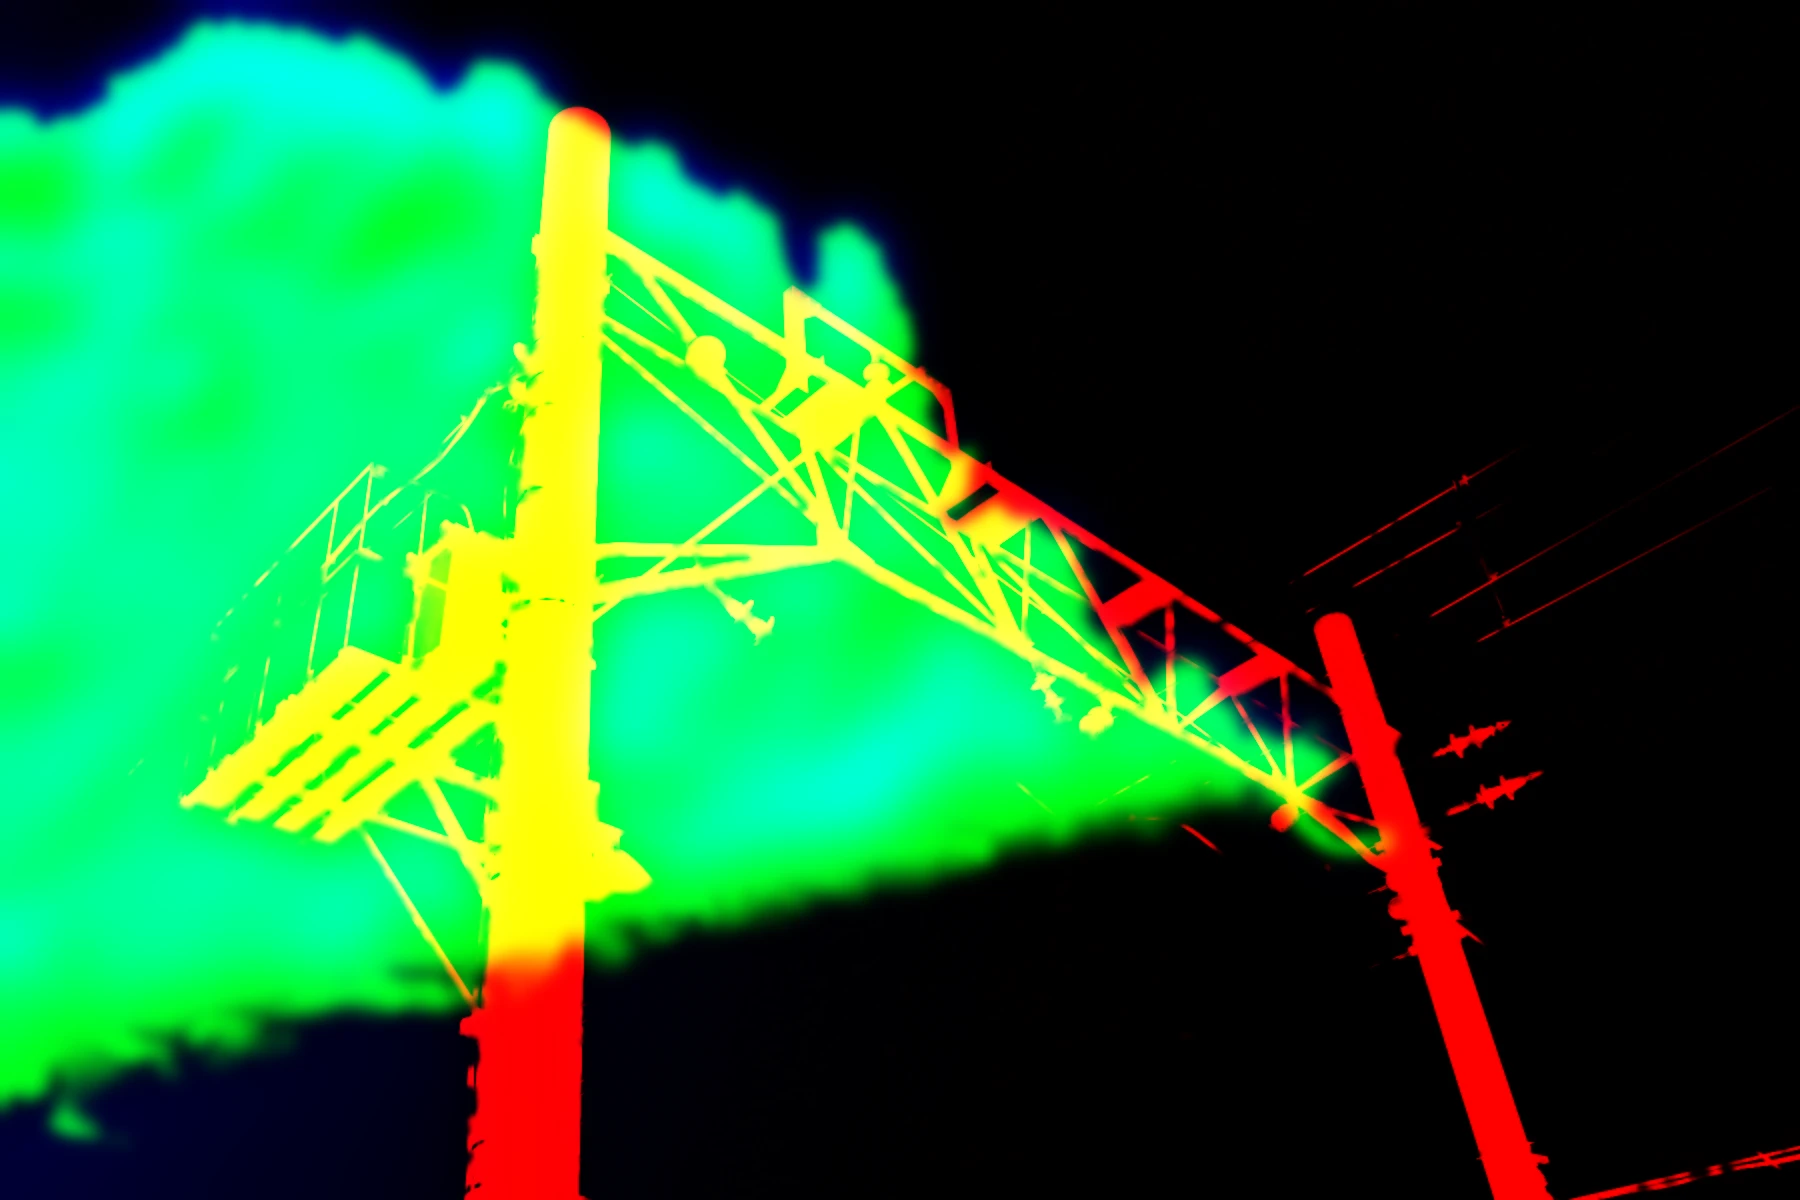
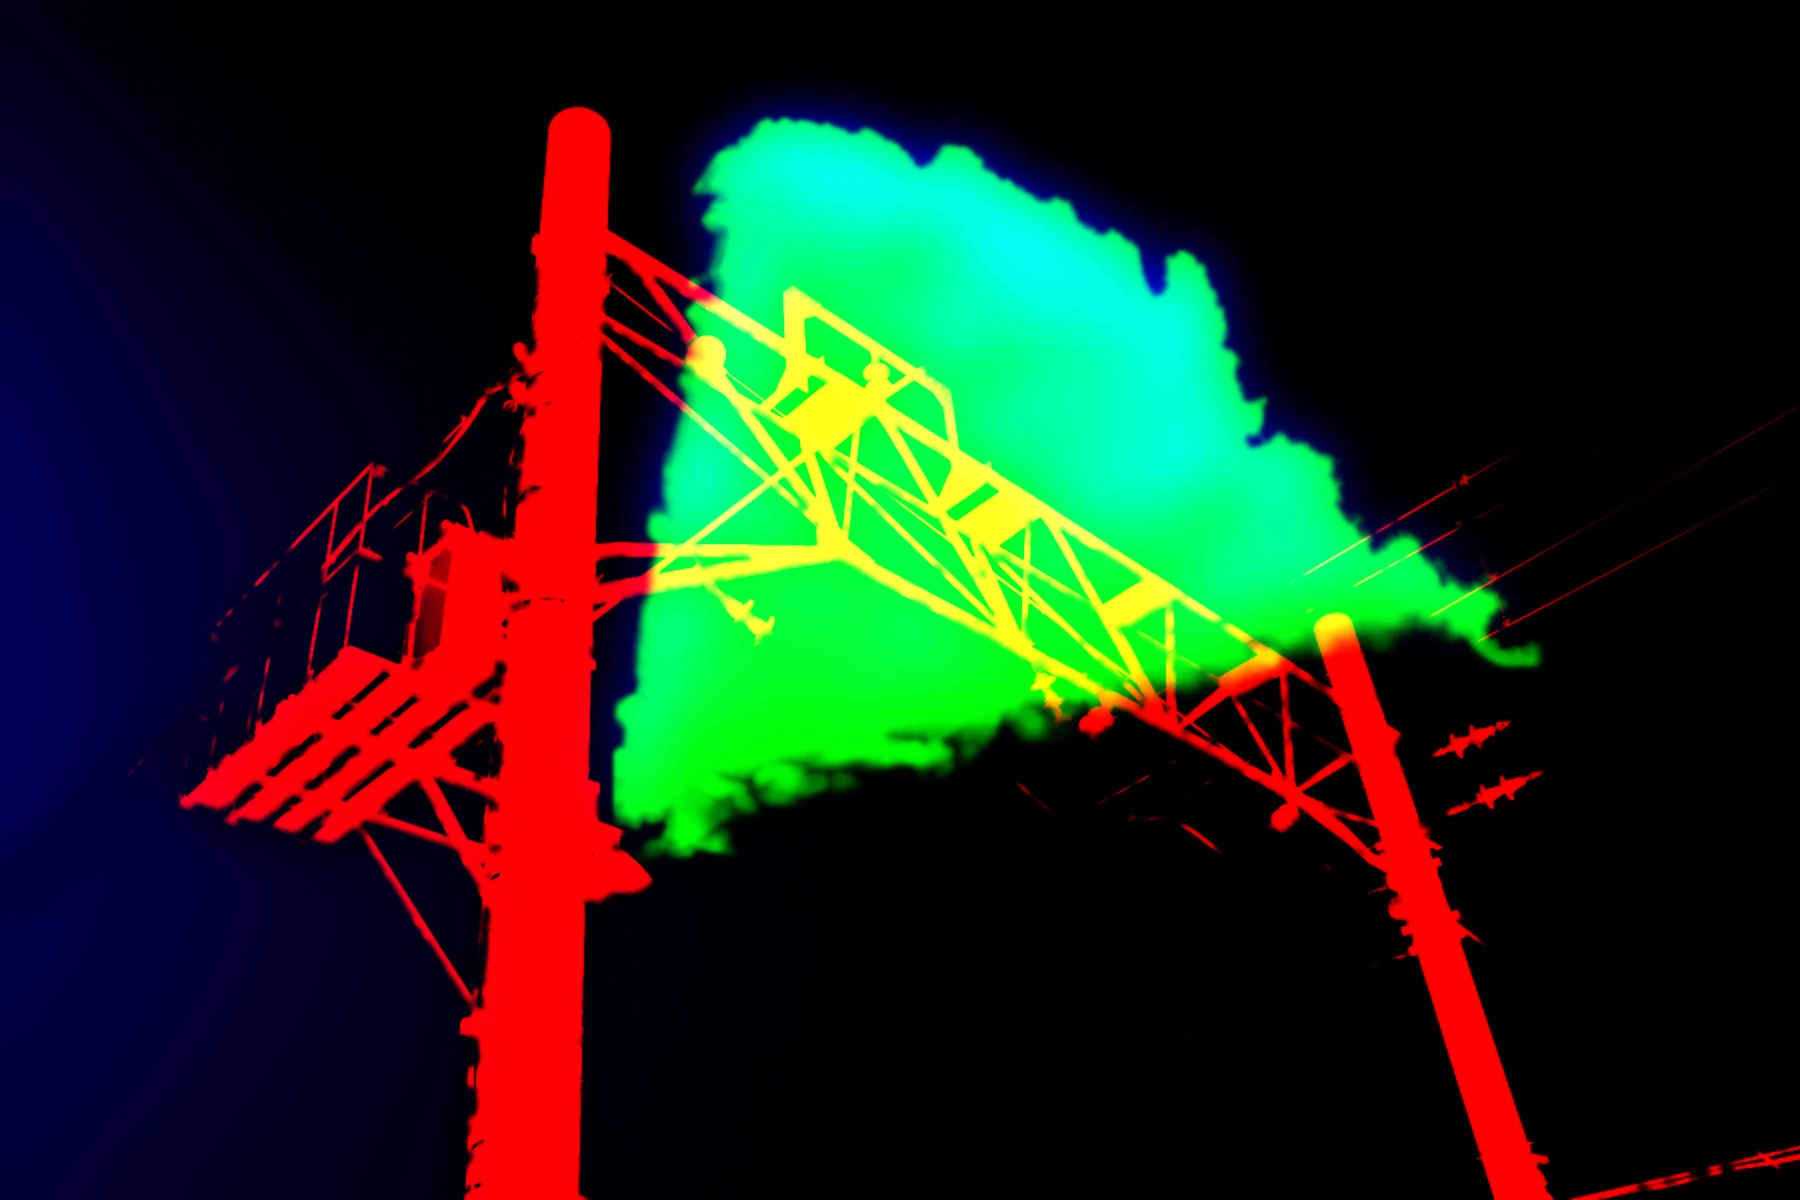
Lab: climb catenary round 2
Claude-Session: https://claude.ai/code/session_01RqENhngNCzDFmJWDZueXGV

diff --git a/tools/depth/bakes/catenary/sky.py b/tools/depth/bakes/catenary/sky.py
@@ -17,23 +17,25 @@
 #     the plate's own clear-sky pixels, so its gradient, hue and the cobalt it
 #     deepens to at the top stay the photograph's; a fine, luma-only grain
 #     measured off the plate's sky goes back on top of it.
-#  3. One towering cumulus is taken from a second photograph (the clean side
-#     of the tower in cumulus-pole.jpg, left of it a pole and wires) and set
-#     the way it was shot, lit from the left like the steel: its crown just
-#     under the frame top on the left, behind the gantry apex and the near
-#     pole's upper half, its billowed flank stepping down to the right behind
-#     the truss, the side cut at the source's pole lying past the frame's left
-#     edge. Its own sky is unmixed out of it (cloud opacity from the
-#     red-to-blue ratio, then again along each edge pixel's colour line), so
-#     its thin edges take this sky, not that one, and it is laid over this
-#     sky through a soft matte (FEATHER), so no contour of either is left.
-#     Its body is re-lit as a volume from its own light (the form term:
-#     sunlit billows warm paper, the shaded side and the body under the
-#     tower skylight blue; the brightest tops about 236-240 here, nothing at
-#     255). Below a base line
-#     drawn from where the flank leaves the source the cloud gives way to sky
-#     on its own light, so the source's flat lower haze and its cut right
-#     edge never show and nothing is carried on by reflection.
+#  3. One towering cumulus is taken from a second photograph: only the
+#     crisp cauliflower crown of the tower in cumulus-pole.jpg (right of its
+#     pole), set the way it was shot, lit from the left like the steel, at
+#     about two thirds the size it was first staged at. Its whole crown
+#     stands clear against open cobalt in the gap between the mast top and
+#     the feeder, its top about a tenth of the frame down; its flank steps
+#     down to the right, and only its lower body passes behind the truss and
+#     the far pole. Left of it, behind the transformer, is open sky over the
+#     tower's shaded foot. Its own sky is unmixed out of it (cloud opacity
+#     from the red-to-blue ratio, then again along each edge pixel's colour
+#     line), so its thin edges take this sky, not that one, and it is laid
+#     over this sky through a narrow matte (FEATHER), crisp, with no contour
+#     of either. Its body is re-lit as a volume from its own light (the form
+#     term: sunlit billows warm paper, the shaded side and the body under
+#     the crown skylight blue; the crown keeps more of its own light than the
+#     flat body; the brightest tops about 236-240 here, nothing at 255).
+#     Where the source's pole and its soft, veiled base were, lines drawn
+#     around the tower (CUTS) give the cloud back to sky on its own light,
+#     so it ends on lobes and nothing is carried on by reflection.
 #  4. The new sky goes in behind the steel by difference: each pixel adds
 #     (1 - steel) times the change of background under it, against the old
 #     background filled in under the steel, so a mast edge that was mixed
@@ -55,23 +57,43 @@ for name in ("plate", "key"):
         shutil.copy(f"{PUB}/{name}.webp", f"{WORK}/{name}-shot.webp")
 
 LUMA = np.array([0.2126, 0.7152, 0.0722], np.float32)
-# The cumulus: the source columns kept (left of them the pole), the scale
-# (plate px per source px) and the plate point the source's (SRC_X0, 0) lands
-# on. Not mirrored: SRC_X0 sits on the plate's left edge, the crown (source
-# row ~142) lands ~40px under the frame top, and the flank leaves the source's
-# right edge at source row ~940. The scale is what puts the flank behind most
-# of the truss; below ~1.9 the truss's far half stands on bare sky.
-SRC_X0 = 1000
-SCALE = 2.0
-LEFT = 0  # plate column of source column SRC_X0
-TOP = -244  # plate row of the source's row 0
-# The base line, plate px: from where the flank leaves the source (source
-# (2399, 940)) down to the frame's left edge. BASE_FADE is how far inside the
-# line the cloud starts to give way; LOBE how far its own light moves that.
-BASE_A = (LEFT + (2399 - SRC_X0) * SCALE, TOP + 940 * SCALE)
-BASE_B = (0.0, 2300.0)
-BASE_FADE = 260.0
-LOBE = 6.0
+# The cumulus: its crown. Only the source's cauliflower top is staged, the
+# part right of its pole (SRC_X0) and above where its flank goes soft; the
+# flat, veiled base and the haze under it never show. Not mirrored: lit from
+# the left, like the steel. SCALE is plate px per source px; (LEFT, TOP) the
+# plate point the source's (SRC_X0, 0) lands on. At this size and place the
+# whole crown stands clear in the gap between the mast top and the feeder,
+# about 0.25-0.65 of the frame's width, its top (source row ~140) about a
+# tenth of the frame down, and only its lower body passes behind the truss
+# and the far pole; left of it, behind the transformer, is open sky.
+SRC_X0 = 975
+SCALE = 1.3
+LEFT = 1234  # plate column of source column SRC_X0
+TOP = 52  # plate row of the source's row 0
+
+
+def at(x, y):
+    # source px -> plate px
+    return (LEFT + (x - SRC_X0) * SCALE, TOP + y * SCALE)
+
+
+# Where the tower gives way to sky, as lines in source px, each with how far
+# inside it the cloud starts to give way (plate px) and how far its own
+# light moves the line (lobe): a lobe brighter than its surroundings reaches
+# past it, the hollows between lobes give way first, so the tower ends on
+# lobes, not on a line. The base runs from where the flank leaves the source
+# (its right edge, row ~940) back under the crown. The side closes the
+# crown's left, where the source's pole and the lobe beside it were: it
+# starts in the notch left of the crown's peak and widens down to the left,
+# so the tower stands on its body; its top is held to a plain shoulder, or
+# the thin bright neck that joined the crown to the lobe beside its pole
+# would reach out past it as a wisp.
+CUTS = [
+    ((2399, 940), (975, 1300), 200.0, 6.0),  # the base
+    ((1130, 150), (980, 1000), 60.0, 12.0),  # the left side
+    ((1170, 110), (1000, 380), 40.0, 0.0),  # the crown's left shoulder
+]
+INSIDE = (1400, 380)  # a source point well inside the crown
 # Developed brighter: linear gain on the cloud, premultiplied.
 GAIN = 1.2
 
@@ -217,12 +239,15 @@ am = np.clip(cv2.remap(a, sx, sy_, cv2.INTER_CUBIC, borderMode=cv2.BORDER_REPLIC
 # ends on lobes, not on a line or a ramp. Nothing outside the source is used.
 cy = lin_to_srgb(np.clip(Pm @ LUMA, 0, 1) / np.maximum(am, 1e-3)) * am
 lobe = cv2.GaussianBlur(cy, (0, 0), 5) - cv2.GaussianBlur(cy, (0, 0), 40)
-(xa, ya), (xb, yb) = BASE_A, BASE_B
-nx, ny = ya - yb, xb - xa
-s_in = ((gx - xa) * nx + (gy - ya) * ny) / np.hypot(nx, ny)
-s_in *= np.sign(-xa * nx - ya * ny)  # positive on the frame's top-left side
 edge = np.minimum(sW - 1 - sx, sH - 1 - sy_)
-fade = smooth(0.3, 0.7, s_in / BASE_FADE + LOBE * lobe) * smooth(0.0, 24.0, edge)
+fade = smooth(0.0, 24.0, edge)
+ix, iy = at(*INSIDE)
+for a_, b_, width, lobe_k in CUTS:
+    (xa, ya), (xb, yb) = at(*a_), at(*b_)
+    nx, ny = ya - yb, xb - xa
+    s_in = ((gx - xa) * nx + (gy - ya) * ny) / np.hypot(nx, ny)
+    s_in *= np.sign((ix - xa) * nx + (iy - ya) * ny)  # positive inside
+    fade *= smooth(0.3, 0.7, s_in / width + lobe_k * lobe)
 fade = cv2.GaussianBlur((fade * (sy_ >= 0) * (sx >= SRC_X0)).astype(np.float32), (0, 0), 1.5)
 am *= fade
 Pm *= fade[..., None]
@@ -245,7 +270,9 @@ if n > 2:
 # toward that colour. The matte is then softened over FEATHER of the frame
 # width (sky to full cloud), so the thin edge is a linear-light mix of the
 # cloud's own white and this sky, light all the way out, with no contour.
-FEATHER = 0.015
+# Only just: a wider feather (it was 0.015) spread the edge into a pale
+# glow band outside a soft cut-out; a crown in sun stands sharp.
+FEATHER = 0.004
 Sm = cv2.remap(sl, sx, sy_, cv2.INTER_CUBIC, borderMode=cv2.BORDER_REPLICATE)
 Km = cv2.remap(ssky, sx, sy_, cv2.INTER_CUBIC, borderMode=cv2.BORDER_REPLICATE)
 dense = smooth(0.6, 0.95, cv2.erode(am, cv2.getStructuringElement(cv2.MORPH_ELLIPSE, (25, 25))))
@@ -269,8 +296,15 @@ af = cv2.GaussianBlur(a2.astype(np.float32), (0, 0), FEATHER * W / 4)
 # away, or under the tower, it takes skylight (SKYLIGHT: hue, saturation,
 # value as it should land in the print, dimmed by FORM_SHADE here, since the
 # film and print lift it), a little less in the folds between lobes. The
-# cloud's own fine texture rides on top. FORM is how far the body takes it.
-FORM = 0.9
+# cloud's own fine texture rides on top. FORM is how far the body takes it:
+# the crown, crisp and lit as photographed, keeps most of its own light; the
+# body under it (source rows BODY), flat as shot, takes FORM_BODY of it and
+# loses BODY_SHADE of the sun, so the tower stands sunlit on top of a
+# skylight-blue lower body.
+FORM = 0.45
+FORM_BODY = 0.9
+BODY = (480, 1150)  # source rows: the crown's foot, the lowest body shown
+BODY_SHADE = 0.55
 SUN = 125  # degrees, toward the sun (0 right, 90 up), as PLATE in the engine
 FORM_ELEV = 30
 FORM_RELIEF = (10.0, 4.0)  # normal gain on the lobes, on the matte
@@ -278,7 +312,7 @@ FORM_DEPTH = 0.3
 SHADOWED = 0.8  # how much of the sun the deepest body loses
 TOP = (0xF6, 0xF3, 0xEC)
 TOP_Y = 0.92  # linear luma of a fully lit billow
-SKYLIGHT = (205, 0.32, 0.75)  # its saturation set over, the print eases chroma off
+SKYLIGHT = (207, 0.4, 0.72)  # its saturation set over, the print eases chroma off
 FORM_SHADE = 0.76
 
 
@@ -325,6 +359,8 @@ od = gauss(od, 10)
 # A crest turned to the sun still catches it inside the shadowed body.
 facing = smooth(0.3, 0.85, ndl)
 sunlit = smooth(-0.3, 0.58, ndl) * (1 - SHADOWED + SHADOWED * np.exp(-FORM_DEPTH * od) ** (1 - 0.6 * facing))
+under = smooth(BODY[0], BODY[1], cv2.resize(sy_, h2, interpolation=cv2.INTER_AREA))
+sunlit *= 1 - BODY_SHADE * under
 ao = np.clip(1 + 2.5 * (gauss(Ys, 4) - gauss(Ys, 32)), 0.75, 1.1)
 top = srgb_to_lin(np.array(TOP, np.float32) / 255)
 top *= TOP_Y / float(top @ LUMA)
@@ -332,7 +368,8 @@ shade = srgb_to_lin(hsv_rgb(*SKYLIGHT)) * FORM_SHADE
 lo = shade * ao[..., None] * (1 - sunlit[..., None]) + top * sunlit[..., None]
 lo = cv2.resize(lo, (W, H), interpolation=cv2.INTER_CUBIC)
 detail = np.clip(ylin / np.maximum(gauss(ylin, 4), 1e-4), 0.85, 1.15)
-col = (1 - FORM) * GAIN * col + FORM * lo * detail[..., None]
+form = (FORM + (FORM_BODY - FORM) * cv2.resize(under, (W, H), interpolation=cv2.INTER_LINEAR))[..., None]
+col = (1 - form) * GAIN * col + form * lo * detail[..., None]
 if os.environ.get("DEBUG"):
     cv2.imwrite(WORK + "/form-sunlit.png", (np.clip(sunlit, 0, 1) * 255).astype(np.uint8))
     cv2.imwrite(WORK + "/form-ndl.png", (np.clip(ndl * 0.5 + 0.5, 0, 1) * 255).astype(np.uint8))
